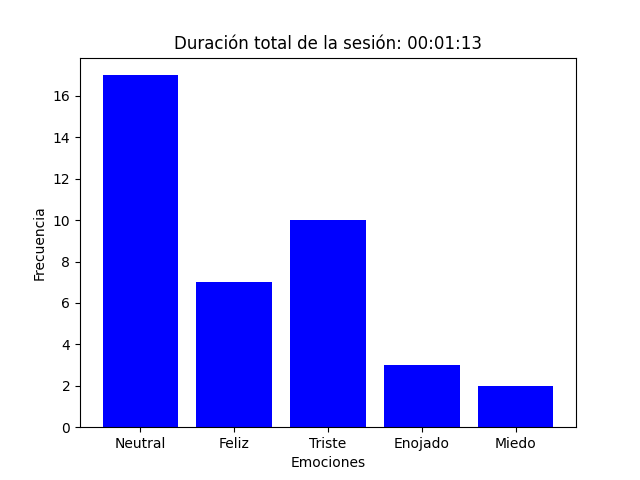
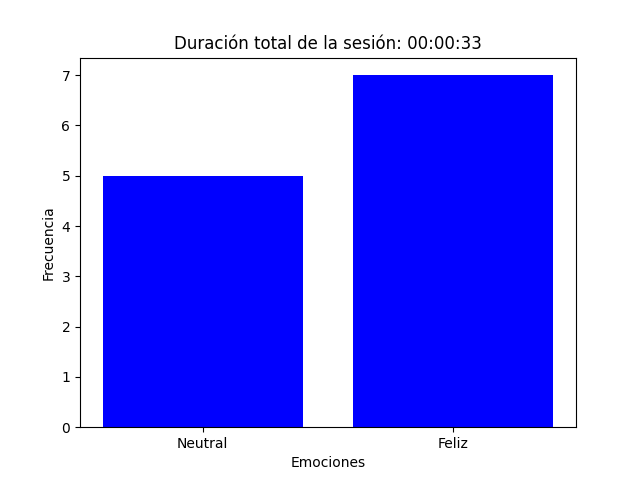
.

diff --git a/main_capture.py b/main_capture.py
@@ -1,14 +1,11 @@
 import cv2
 import time
-import numpy as np
-import mss
 from src.emotion_recognition import predict_emotion
 from src.face_recognition_utils import load_known_faces, recognize_face
 from src.visualization import update_plot, save_final_plot, save_session_summary_to_csv, save_session_to_astra, emotion_counts, save_session_to_api
 
-# Configuración de captura de pantalla completa
-sct = mss.mss()
-monitor = sct.monitors[2]  # Monitor principal, cambiar a sct.monitors[2] si usas más monitores
+# Configuración de captura de video
+cap = cv2.VideoCapture(0)
 frame_count = 0
 frame_skip = 30  # Procesar solo cada 30 fotogramas
 plot_update_interval = 30
@@ -19,23 +16,19 @@ load_known_faces()
 person_name = "Desconocido"
 
 while True:
-    # Capturar toda la pantalla
-    screenshot = sct.grab(monitor)
-    frame = np.array(screenshot)
-    frame = cv2.cvtColor(frame, cv2.COLOR_BGRA2BGR)  # Convertir de BGRA a BGR para usarlo con OpenCV
+    ret, frame = cap.read()
+    if not ret:
+        break
 
     frame_count += 1
     if frame_count % frame_skip == 0:
-        # Reducir la resolución de la imagen para acelerar el procesamiento
         small_frame = cv2.resize(frame, (0, 0), fx=0.5, fy=0.5)
         rgb_frame = cv2.cvtColor(small_frame, cv2.COLOR_BGR2RGB)
 
-        # Reconocer rostros en la imagen capturada
         recognized_faces = recognize_face(rgb_frame)
 
         for (top, right, bottom, left, name) in recognized_faces:
             person_name = name  # Guardar el nombre de la persona reconocida
-            # Ajustar las coordenadas al tamaño original
             top, right, bottom, left = top * 2, right * 2, bottom * 2, left * 2
             roi_gray = cv2.cvtColor(frame, cv2.COLOR_BGR2GRAY)[top:bottom, left:right]
             roi_gray = cv2.resize(roi_gray, (48, 48))
@@ -43,19 +36,15 @@ while True:
             predicted_emotion = predict_emotion(roi_gray)
             emotion_counts[predicted_emotion] += 1
 
-            # Dibujar el rectángulo y poner la etiqueta en la pantalla capturada
             cv2.rectangle(frame, (left, top), (right, bottom), (255, 255, 255), 2)
             cv2.putText(frame, f'{name} - {predicted_emotion}', (left, top - 10),
                         cv2.FONT_HERSHEY_SIMPLEX, 0.8, (255, 255, 255), 2)
 
-    # Mostrar la pantalla con los rostros reconocidos
-    cv2.imshow('Emotion and Face Recognition on Screen', frame)
+    cv2.imshow('Emotion and Face Recognition', frame)
 
-    # Actualizar el gráfico cada cierto intervalo de fotogramas
     if frame_count % plot_update_interval == 0:
         update_plot()
 
-    # Salir si se presiona 'q'
     if cv2.waitKey(1) & 0xFF == ord('q'):
         break
 
@@ -64,5 +53,5 @@ save_final_plot(person_name)
 save_session_summary_to_csv(person_name)
 save_session_to_astra(person_name)
 save_session_to_api(person_name)
-
+cap.release()
 cv2.destroyAllWindows()
